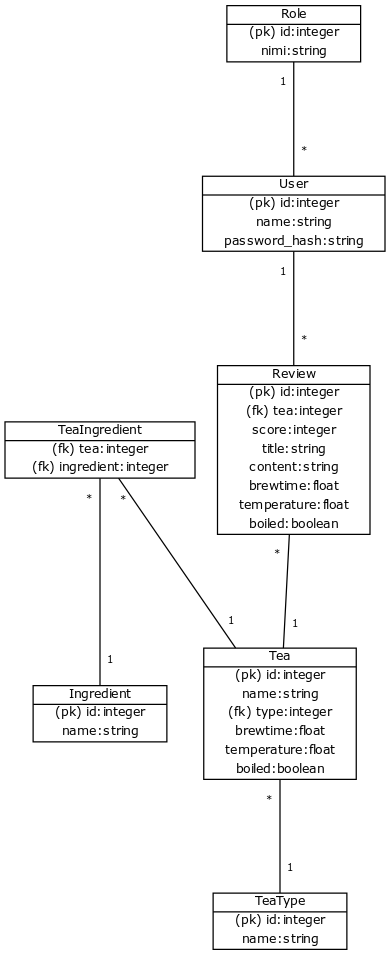
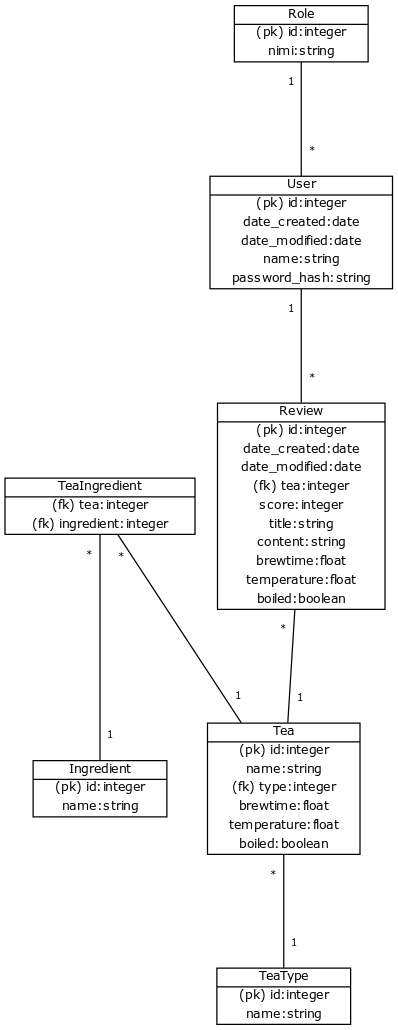
arvostelujen tarkasteleminen lisätty, syötteiden validointia korjattu, dokumentaatiota muokattu

Changed region(s): [[0.0, 0.0, 1.0, 1.0]]

diff --git a/application/templates/tea/reviews/add.html b/application/templates/tea/reviews/add.html
@@ -5,38 +5,45 @@
 <div class="pane form">
   <form class="form" action="{{url_for('add_review')}}" method="POST">
     <input type="hidden" name="id" value="{{tea.id}}">
-    <div class="row">
-      <div class="col-3">
+    <div class="container-fluid row">
+      <div class="col-4">
         {%for subfield in form.score%}
-        <div class="col form-check form-check-inline">
+        <div class="container col form-check form-check-inline">
           <div class="col-1">{{subfield(class_="score-radio form-control")}}</div>
           <div class="col">{{subfield.label(class_="score")}}</div>
         </div>
         {%endfor%}
       </div>
-      <div class="col form-group">
+      <div class="col-8 form-group">
         {{form.title(class_="form-control", placeholder=form.title.label.text)}}
         {{form.text(class_="form-control", placeholder=form.text.label.text)}}
       </div>
     </div>
 
-    <div id="brewdata">
-      <div class="form-check" class="col">
+    <div class="container row">
+      <div class="form-check col">
         {{form.add_brewinfo(class_="form-check-input")}}
         {{form.add_brewinfo.label(class_="form-check-label")}}
       </div>
-      <div class="form-group" style="clear: both">
-        {{form.temperature.label(class_="control-label")}}
-        {{form.temperature(class_="form-control", placeholder=form.temperature.label.text)}}
-      </div>
-      <div class="form-group" style="clear: both">
-        {{form.brewtime.label(class_="control-label")}}
-        {{form.brewtime(class_="form-control", placeholder=form.brewtime.label.text)}}
-      </div>
-      <div class="form-check" style="clear: both">
-        {{form.boiled(class_="form-check-input")}}
-        {{form.boiled.label(class_="form-check-label")}}
-      </div>
+    </div>
+    <div class="brewdata">
+      <table class="form-group table">
+        <!-- tables shouldn't be used inside forms, but I don't know of a neater way to do this -->
+        <thead>
+          <tr>
+            <th scope="col">{{form.temperature.label.text}}</th>
+            <th scope="col">{{form.brewtime.label.text}}</th>
+            <th scope="col">{{form.boiled.label.text}}</th>
+          </tr>
+        </thead>
+        <tbody>
+          <tr>
+            <td>{{form.temperature(class_="form-control", placeholder=form.temperature.label.text)}}</td>
+            <td>{{form.brewtime(class_="form-control", placeholder=form.brewtime.label.text)}}</td>
+            <td>{{form.boiled(class_="form-check-input")}}</td>
+          </tr>
+        </tbody>
+      </table>
     </div>
     <input type="submit" class="btn btn-primary form-control" value="Tallenna">
   </form>

diff --git a/application/templates/tea/reviews/view.html b/application/templates/tea/reviews/view.html
@@ -1,0 +1,47 @@
+{% extends "layout.html" %}
+
+{% block body %}
+<h2>Arvostelu teelle {{tea.name}}</h2>
+<div class="pane">
+  <div class="container">
+    <div class="row">
+      <div class="col">
+        {%if review.title%}
+        <h3>{{review.title}}</h3>
+        {%endif%}
+        <table class="table">
+          <tbody>
+            <tr>
+              <th scope="row">Arvosana</th>
+              <td>{{review.score}}</td>
+            </tr>
+            {%if review.temperature%}
+            <tr>
+              <th scope="row">Haudutuslämpötila</th>
+              <td>{{review.temperature}}</td>
+            </tr>
+            {%endif%}
+            {%if review.brewtime%}
+            <tr>
+              <th scope="row">Haudutusaika</th>
+              <td>{{review.brewtime}}</td>
+            </tr>
+            {%endif%}
+            {%if review.boiled%}
+            <tr>
+              <th scope="row">Keitetty</th>
+              <td>{{review.boiled}}</td>
+            </tr>
+            {%endif%}
+          </tbody>
+        </table>
+      </div>
+      <div class="col">
+        <p>
+        {{review.content}}
+        </p>
+      </div>
+    </div>
+  </div>
+</div>
+{% endblock %}

diff --git a/application/templates/tea/reviews/list.html b/application/templates/tea/reviews/list.html
@@ -18,10 +18,10 @@
           <span class="tea teaitem"><a href="{{url_for('view_tea', id=row['tea']['id'])}}">{{row['tea']['name']}}</a></span>
         </td>
         <td>
-          {%if row['review']['title'] %}<span class="teatype teaitem">{{row['review']['title']}}</span>{%endif%}
+          {%if row['review']['title'] %}<a href="{{url_for('view_review', id=row['review']['id'])}}" class="teatype teaitem">{{row['review']['title']}}</a>{%endif%}
         </td>
         <td>
-          <span class="number teaitem">{{row['review']['score']}}</span>
+          <a href="{{url_for('view_review', id=row['review']['id'])}}" class="number teaitem">{{row['review']['score']}}</a>
         </td>
       </tr>
       {% endfor %}

diff --git a/application/templates/tea/teas/view.html b/application/templates/tea/teas/view.html
@@ -61,10 +61,10 @@
         {% for row in reviews %}
         <tr>
           <td>
-            {%if row['review']['title'] %}<span class="teatype teaitem">{{row['review']['title']}}</span>{%endif%}
+            {%if row['review']['title'] %}<a href="{{url_for('view_review', id=row['review']['id'])}}" class="teatype teaitem">{{row['review']['title']}}</a>{%endif%}
           </td>
           <td>
-            <span class="number teaitem">{{row['review']['score']}}</span>
+            <a href="{{url_for('view_review', id=row['review']['id'])}}" class="number teaitem">{{row['review']['score']}}</a>
           </td>
         </tr>
         {% endfor %}

diff --git a/application/static/css/template.css b/application/static/css/template.css
@@ -16,6 +16,16 @@
 .page-header a {
   float: right;
 }
+.container, .container-fluid {
+  padding-left: 0pt;
+  padding-right: 0pt;
+}
+.brewdata .row.label {
+  height: 4em;
+}
+.brewdata table .form-check-input {
+  margin: auto;
+}
 form {
   display: grid;
 }

diff --git a/application/tea/reviews/views.py b/application/tea/reviews/views.py
@@ -20,11 +20,8 @@ def view_review():
     review = db.session.query(Review).get(id)
     if not review:
         return abort(404)
-    if current_user and current_user.is_authenticated and current_user.id == review.user:
-        user = db.session.query(User).get
-        return redirect(url_for("modify_review", review = review))
-    else:
-        return render_template("tea/reviews/view.html", review = review)
+    tea = db.session.query(Tea).get(review.tea)
+    return render_template("tea/reviews/view.html", review = review, tea = tea)
         
 @app.route("/tea/reviews/modify", methods=["GET", "POST"])
 @login_required()
@@ -41,6 +38,19 @@ def modify_review():
     else:
         return error(503)
 
+def is_float(s):
+    try:
+        float(s)
+        return True
+    except ValueError:
+        return False
+
+def is_int(s):
+    try:
+        int(s)
+        return True
+    except ValueError:
+        return False
 
 @app.route("/tea/reviews/add", methods=["GET", "POST"])
 @login_required()
@@ -63,16 +73,40 @@ def add_review():
     else:
         form = ReviewForm(request.form)
         id = request.form.get("id")
-        if form.validate_on_submit():
-            score = form.score.data
-            title = form.title.data
-            text = form.text.data
-            add_brewinfo = form.add_brewinfo.data
-            review = None
+        score = form.score.data
+        title = form.title.data
+        text = form.text.data
+        add_brewinfo = form.add_brewinfo.data
+        review = None
+        errors = []
+        if score and (not is_int(score) or int(score) < 1 or int(score) > 5):
+            errors.append("Arvosanan on oltava välillä 1-5.")
+        if not title or len(title) < 1 or len(title) > 255:
+            errors.append("Otsikon pituuden on oltava välillä 1-255.")
+        temperature = None
+        brewtime = None
+        boiled = None
+        if add_brewinfo:
+            temperature = form.temperature.data
+            brewtime = form.temperature.data
+            boiled = form.boiled.data
+        if temperature and (not is_float(temperature) or float(temperature) < -10 or float(temperature) > 110):
+            errors.append("Lämpötilan on oltava välillä -10-110 °C.")
+        else:
+            temperature = float(temperature)
+        if brewtime and (not is_float(brewtime) or float(brewtime) < -10 or float(brewtime) > 110):
+            errors.append("Haudutusajan on oltava välillä 0-60 minuuttia.")
+        else:
+            brewtime = float(brewtime)
+
+        if len(errors) > 0:
+            print("validation failed, %d errors:" % len(errors))
+            for error in errors:
+                print(error)
+            print("%r" % form.score.data)
+            return redirect(url_for("add_review", id = id))
+        else:
             if add_brewinfo:
-                temperature = request.form.get("temperature")
-                brewtime = request.form.get("brewtime")
-                boiled = request.form.get("boiled") == "y"
                 review = Review(user = current_user.id, title = title, tea = id, score = int(score), content = text, temperature = temperature, brewtime = brewtime, boiled = boiled)
             else:
                 review = Review(user = current_user.id, title = title,  tea = id, score = int(score), content = text, temperature = None, brewtime = None, boiled = None)
@@ -80,9 +114,6 @@ def add_review():
             print("tea is " + str(id))
             db.session.add(review)
             db.session.commit()
-        else:
-            print("validation failed")
-            return redirect(url_for("add_review", id = id))
         return redirect(url_for("teas_page"))
 
 # TODO: implement listing and editing of reviews

diff --git a/application/tea/forms.py b/application/tea/forms.py
@@ -25,7 +25,7 @@ class BrewDataForm(FlaskForm):
         csrf = False
 
 class ReviewForm(BrewDataForm):
-    score = RadioField("Arvosana", [validators.InputRequired()], choices = [(1, "★"), (2, "★★"), (3, "★★★"), (4, "★★★★"), (5, "★★★★★")])
+    score = RadioField("Arvosana", [validators.Optional()], choices = [(1, "★"), (2, "★★"), (3, "★★★"), (4, "★★★★"), (5, "★★★★★")])
     title = StringField("Otsikko", [validators.Length(min=1, max=255)])
     text = TextAreaField("Teksti")
     add_brewinfo = BooleanField("Lisää haudutustiedot", default = "unchecked")

diff --git a/dokumentaatio/tietokanta.md b/dokumentaatio/tietokanta.md
@@ -10,6 +10,8 @@
 ### attribuutit
 - Käyttäjä
   - nimi
+  - luontiaika
+  - muokkausaika
 - Rooli
   - nimi
 - Teelaji
@@ -28,7 +30,7 @@
   - arvosana
   - otsikko
   - teksti
-  - lisäysaika
+  - luontiaika
   - muokkausaika
   - haudutusaika
   - haudutuslämpötila
@@ -45,12 +47,12 @@
 
 ### tietokantakaavio
 ```
-[Käyttäjä|(pk) id:integer;nimi:string;salasanan hash]
+[Käyttäjä|(pk) id:integer;luontiaika:date;muokkausaika:date;nimi:string;salasanan hash]
 [Rooli|(pk) id:integer;nimi:string]
 [Teelajike|(pk) id:integer;nimi:string;(fk) tyyppi:integer;onkoBlend:boolean;haudutusaika:integer;lämpötila:integer;keitetäänkö:boolean]
 [Teetyyppi|(pk) id:integer;nimi:string]
 [Ainesosa|(pk) id:integer;nimi:string]
-[Arvostelu|(pk) id:integer;(fk) tee:integer;arvosana:integer;otsikko:string;teksti:string;haudutusaika:float;lämpötila:float;keitetty:boolean]
+[Arvostelu|(pk) id:integer;luontiaika:date;muokkausaika:date;(fk) tee:integer;arvosana:integer;otsikko:string;teksti:string;haudutusaika:float;lämpötila:float;keitetty:boolean]
 [TeeAinesosa|(fk) tee:integer; (fk) ainesosa:integer]
 
 [Käyttäjä]1--*[Arvostelu]
@@ -64,12 +66,12 @@
 - Tallennetaan tietokanta sovelluksessa englanniksi.
 
 ```
-[User|(pk) id:integer;name:string;password_hash:string]
+[User|(pk) id:integer;date_created:date;date_modified:date;name:string;password_hash:string]
 [Role|(pk) id:integer;nimi:string]
 [Tea|(pk) id:integer;name:string;(fk) type:integer;brewtime:float;temperature:float;boiled:boolean]
 [TeaType|(pk) id:integer;name:string]
 [Ingredient|(pk) id:integer;name:string]
-[Review|(pk) id:integer;(fk) tea:integer;score:integer;title:string;content:string;brewtime:float;temperature:float;boiled:boolean]
+[Review|(pk) id:integer;date_created:date;date_modified:date;(fk) tea:integer;score:integer;title:string;content:string;brewtime:float;temperature:float;boiled:boolean]
 [TeaIngredient|(fk) tea:integer; (fk) ingredient:integer]
 
 [User]1--*[Review]

diff --git a/dokumentaatio/jatkokehitys.md b/dokumentaatio/jatkokehitys.md
@@ -1,8 +1,7 @@
 ### Jatkokehitys
 - Puuttuvaa toiminnallisuutta:
-  - Arvostelujen tarkastelu, poistaminen ja muokkaus
+  - Arvostelujen poistaminen ja muokkaus
   - Käyttäjätietojen tarkastelu, poistaminen ja muokkaus
-  - Cross-site request forgery -suojauksen toteuttaminen jäi epäselväksi.
   - Brewtime ja timestampit jäivät normalisoimatta ajanpuutteen vuoksi.
   - `application/tea/models.py` on yksi iso tiedosto, sillä siinä olevat luokat ovat riippuvaisia toisistaan ja niiden riippuvuuksien selvittäminen ilman, että tulee kiertoriippuvuuksia vie aikaa.
   - Joidenkin tietokohteiden kohdalla ei tarkisteta, onko samannimisiä rivejä jo olemassa.

diff --git a/dokumentaatio/userstory.md b/dokumentaatio/userstory.md
@@ -1,12 +1,12 @@
 # User storyt
-- Rekisteröimätön käyttäjä voi luoda uuden käyttäjätilin.
+- Rekisteröimätön vieras voi luoda uuden käyttäjätilin.
 
 ```
 insert into account (id, date_created, date_modified, name, username, password_hash
   values (?, ?, ?, ?, ?, ?) 
 ```
 
-- Rekisteröimätön käyttäjä voi kirjautua sisään.
+- Rekisteröitynyt vieras voi kirjautua sisään.
 
 ```
 select id, password_hash from account
